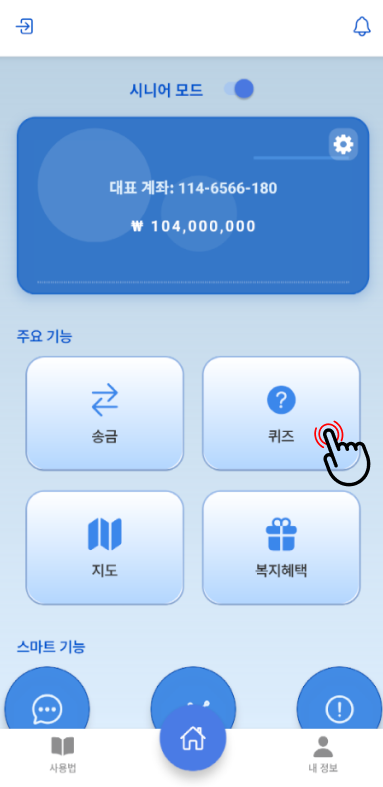
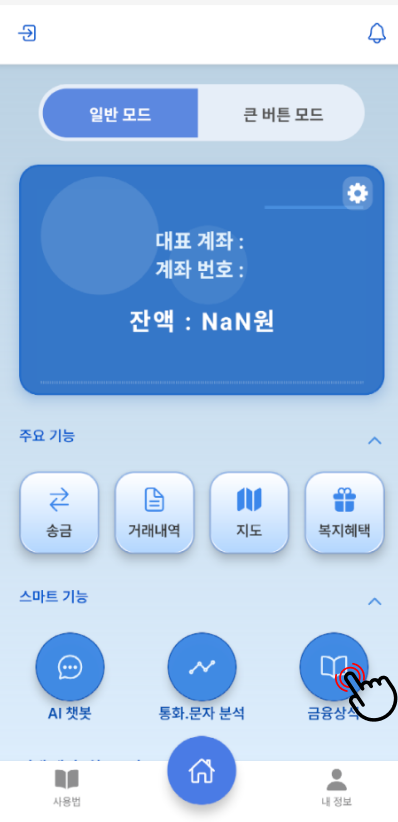
메인 버튼 변경
ㅀ

diff --git a/src/screens/InfoSupport/GuideDetailScreen.js b/src/screens/InfoSupport/GuideDetailScreen.js
@@ -17,6 +17,7 @@ import map4 from '../../assets/guide/map4.png';
 import map5 from '../../assets/guide/map5.png';
 import map6 from '../../assets/guide/map6.png';
 import voicephishing1 from '../../assets/guide/voicephishing1.png';
+import voicephishing15 from '../../assets/guide/voicephishing15.png';
 import voicephishing2 from '../../assets/guide/voicephishing2.png';
 import voicephishing3 from '../../assets/guide/voicephishing3.png';
 import voicephishing4 from '../../assets/guide/voicephishing4.png';
@@ -62,10 +63,11 @@ export default function GuideDetailScreen({ route }) {
     ],
 
     voicePhishing: [
-      { text: '1. 메인 화면의 스마트 기능 영역에서 "보이스 피싱" 버튼을 눌러 보이스피싱 사례 안내 화면으로 이동해요.', image: voicephishing1 },
-      { text: '2. 다양한 보이스피싱 사례들이 실제 문자 예시와 함께 설명이 제공돼요. 자세한 설명을 보고싶으면 자세히 버튼을 눌러주세요.', image: voicephishing2 },
-      { text: '3. 해당 사례의 본문과 주의사항을 자세히 볼 수 있어요.', image: voicephishing3 },
-      { text: '4. 하단의 버튼을 누르면 네이버에서 보이스피싱 관련 최신 뉴스를 확인할 수 있어요.', image: voicephishing4 },
+      { text: '1. 메인 화면의 스마트 기능 영역에서 "금융 상식" 버튼을 눌러 보이스피싱 사례 안내 화면으로 이동해요.', image: voicephishing1 },
+      {text: '2. 화면에 보이스피싱 사례 살펴보기 버튼을 눌러주세요.', image: voicephishing15 },
+      { text: '3. 다양한 보이스피싱 사례들이 실제 문자 예시와 함께 설명이 제공돼요. 자세한 설명을 보고싶으면 자세히 버튼을 눌러주세요.', image: voicephishing2 },
+      { text: '4. 해당 사례의 본문과 주의사항을 자세히 볼 수 있어요.', image: voicephishing3 },
+      { text: '5. 하단의 버튼을 누르면 네이버에서 보이스피싱 관련 최신 뉴스를 확인할 수 있어요.', image: voicephishing4 },
     ],
     location: [
       {
@@ -101,7 +103,7 @@ export default function GuideDetailScreen({ route }) {
     ],
     quiz: [
       {
-        text: '1. 메인 화면에서 퀴즈 버튼을 누르면 금융 학습 화면으로 이동할 수 있어요.',
+        text: '1. 메인 화면에서 금융상식 버튼을 누르면 금융 학습 화면으로 이동할 수 있어요.',
         image: quiz1,
       },
       {

diff --git a/src/screens/Main/MainScreen.js b/src/screens/Main/MainScreen.js
@@ -197,7 +197,7 @@ const MainScreen = ({ navigation }) => {
 
   const actionButtons = [
     { title: '송금', icon: 'swap-horizontal', onPress: () => navigation.navigate('Account') },
-    { title: '학습', icon: 'help-circle', onPress: () => navigation.navigate('Learning') },
+    { title: '거래내역', icon: 'document-text-outline',  onPress: () => {/* 추후 연결 */} },
     { title: '지도', icon: 'map', onPress: () => navigation.navigate('MapView') },
     { title: '복지혜택', icon: 'gift', onPress: () => navigation.navigate('Welfare') },
   ];
@@ -205,7 +205,7 @@ const MainScreen = ({ navigation }) => {
   const featureButtons = [
     { title: 'AI 챗봇', icon: 'chatbubble-ellipses-outline', onPress: () => navigation.navigate('VoiceInput') },
     { title: '통화.문자 분석', icon: 'analytics-outline', onPress: () => navigation.navigate('AutoPhoneAnalysis') },
-    { title: '보이스 피싱', icon: 'alert-circle-outline', onPress: () => navigation.navigate('VoicePhishingScreen') },
+     { title: '금융상식', icon: 'book-outline', onPress: () => navigation.navigate('Learning') },
   ];
 
   // 계좌 문제 영역

diff --git a/App.js b/App.js
@@ -132,7 +132,7 @@ export default function App() {
                   <Stack.Screen name="WithdrawAmount" component={WithdrawAmountScreen} options={{ title: '송금 화면 - 금액 입력' }} />
                   <Stack.Screen name="WithdrawAuth" component={WithdrawAuthScreen} options={{ title: '송금 화면 - 인증하기' }} />
 
-                  <Stack.Screen name="Learning" component={LearningScreen} options={{ title: '학습 콘텐츠' }} />
+                  <Stack.Screen name="Learning" component={LearningScreen} options={{ title: '금융 상식' }} />
                   <Stack.Screen name="QuizLevel" component={SelectLevelScreen} options={{ title: '금융 용어 학습 난이도 선택' }} />
                   <Stack.Screen name="Quiz" component={QuizScreen} options={{ title: '금융 용어 학습' }} />
                   <Stack.Screen name="Answer" component={AnswerScreen} options={{ title: '정답 확인' }} />

diff --git a/src/screens/Learning/LearningScreen.js b/src/screens/Learning/LearningScreen.js
@@ -28,6 +28,13 @@ const LearningScreen = ({ navigation }) => {
       nav: 'DepositStep1',
     },
 
+        {
+      title: '보이스피싱 사례 살펴보기',
+      desc: '실제 사례로 예방해보세요',
+      icon: 'shield-alert-outline',
+      nav: 'VoicePhishingScreen',
+    },
+
   ];
 
   if (scaleAnimRefs.current.length !== cards.length) {
@@ -62,7 +69,7 @@ const LearningScreen = ({ navigation }) => {
           { fontSize: (styles.title.fontSize || +25) }
         ]}
       >
-        학습 콘텐츠
+        금융 상식 배우기
       </CustomText>
 
         {cards.map((card, idx) => (
